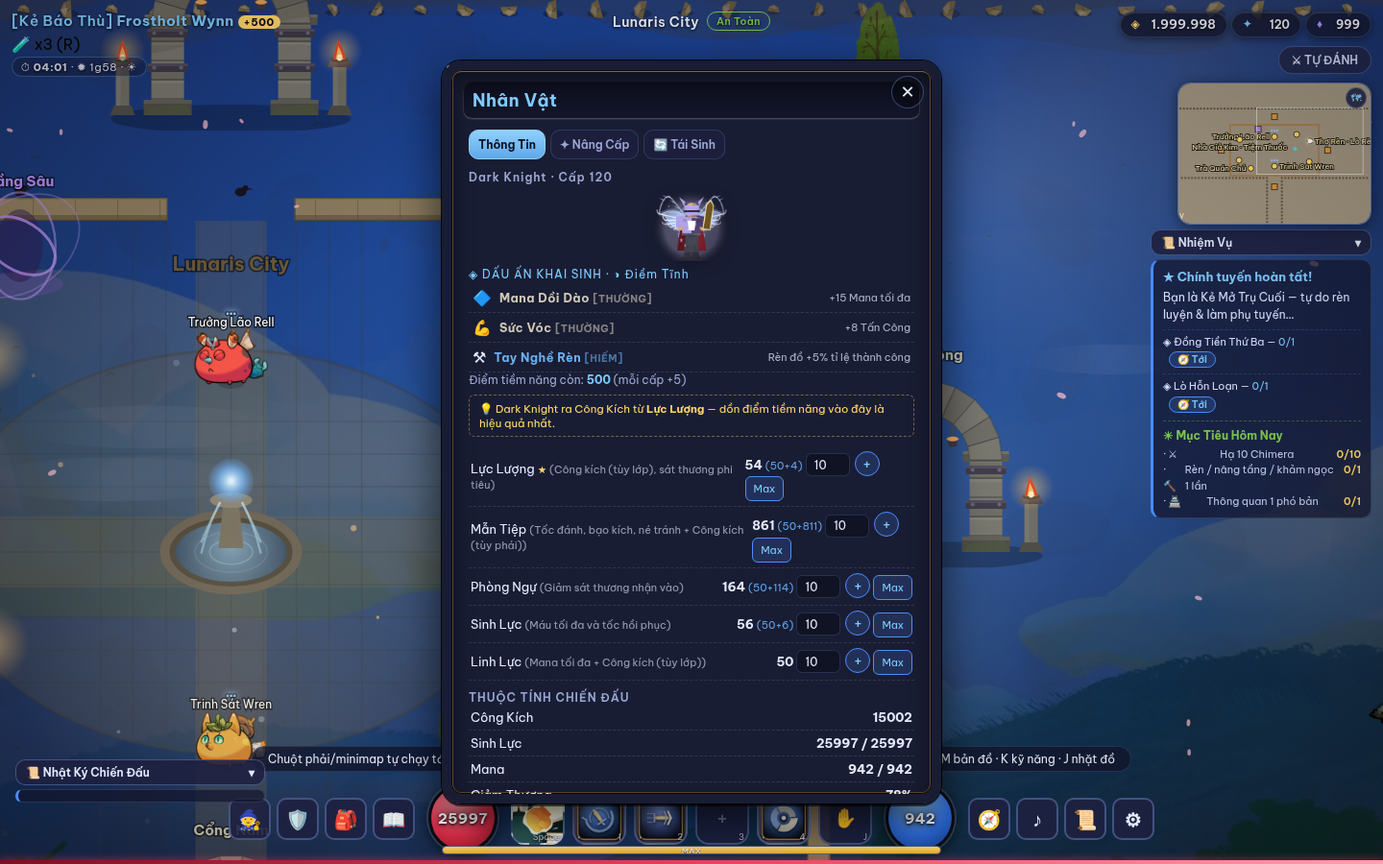
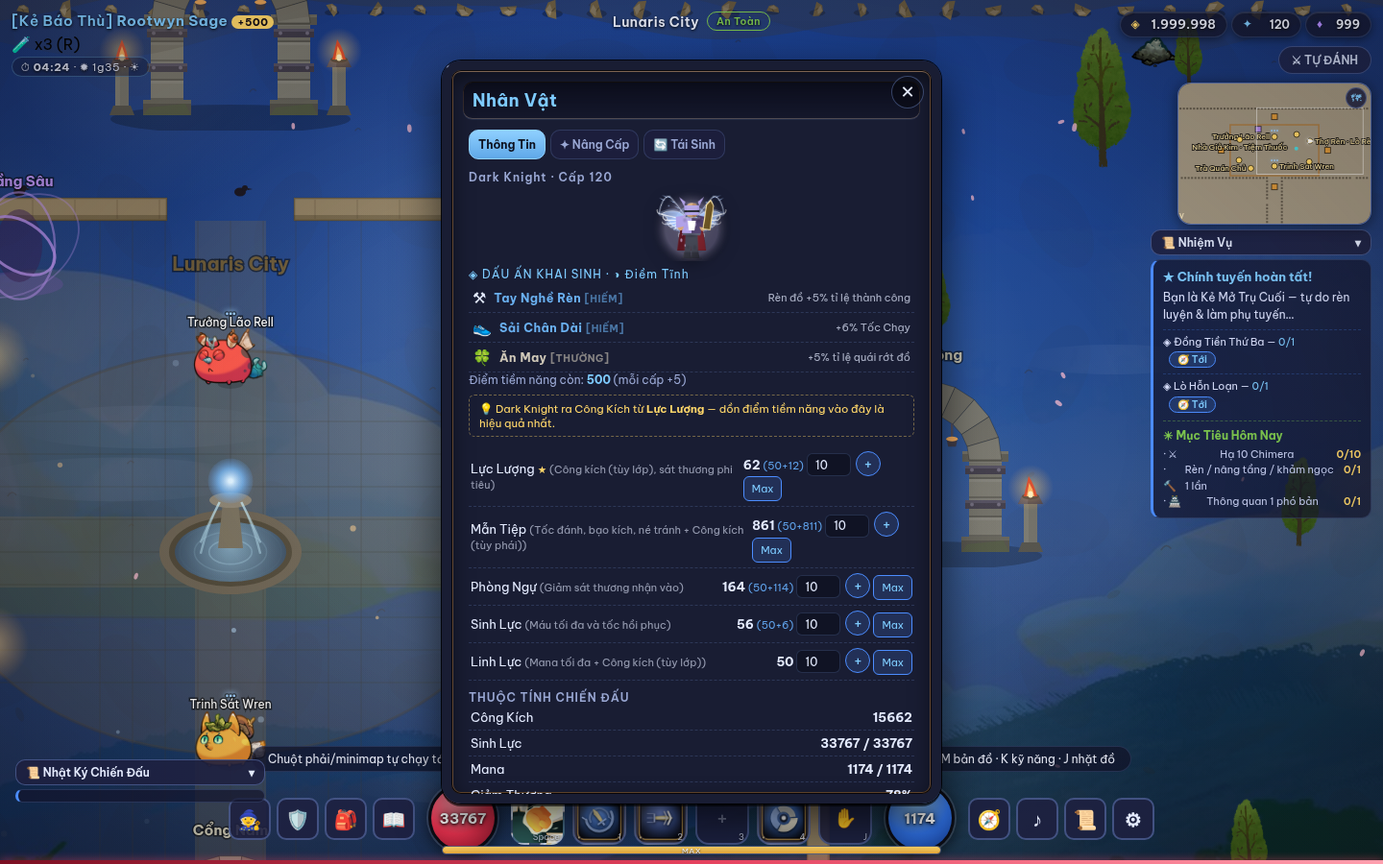
Dẹp hệ Áo Choàng — nó trùng vai với Cánh
Chủ dự án chốt: "đang có 2 loại cánh tồn tại song song là Cánh và Áo Choàng. Về
cơ bản đây là 2 món giống nhau, nhưng định nghĩa thì cánh sẽ bằng với áo choàng
của Dark Lord. Vì thế hãy dẹp bỏ luôn phần Áo Choàng Thánh Quang và ô đồ của nó."

Đúng là trùng: cả hai đều là món khoác sau lưng, đều `specialItem` không có def,
đều cộng %ST, đều chiếm một ô ở cột phải của hình nhân vật. Khác nhau mỗi đường
lên cấp — Cánh rèn bằng ngọc tới +9, Áo Choàng thì nhảy hai nấc ở Lò Hỗn Độn.
Giữ cả hai là bắt người chơi học hai hệ để mặc hai món giống nhau.

── GỠ ───────────────────────────────────────────────────────────────────────
· CLOAK_TIERS (2 cấp) · genCloak() · craftCloak()
· công thức 'Luyện Áo Choàng' trong Lò Hỗn Độn (match/plan/run)
· ô 'aochoang' trong SLOTS và EQUIP_DOLL.right — doll còn 9 ô
· tấm phi phong vẽ sau lưng nhân vật khi drawPlayer
· SLOT_ICONS.aochoang + assets/items/aochoang.png
· kích thước ô túi [2,3] · nhánh cloakTier trong itemReqLv · 2 dòng lang.js
· nhắc "· Áo Choàng" trong mô tả Tu La / Hỗn Nguyên (chúng vẫn dùng để rèn)

Cột phải nay còn BỐN ô, lệch một ô so với cột trái. Để nguyên như vậy: hình nhân
vật neo giữa, hai cột xếp từ trên xuống, thiếu một ô ở đáy phải không làm bố cục
xô lệch — doll của MU cũng không đối xứng.

── MIGRATION CHO SAVE CŨ — phần quan trọng nhất ─────────────────────────────
Không có bước này thì tấm áo choàng cũ thành ĐỒ MA: ô 'aochoang' không còn trong
[…]

diff --git a/public/game/game.js b/public/game/game.js
@@ -501,7 +501,6 @@ const SLOTS = [
   { id:'daychuyen', name:'Dây Chuyền', main:'atk', base:(t)=>Math.round(15*GIAI_POW(t)) },
   { id:'nhan1',     name:'Nhẫn 1',     main:'crit',base:(t)=>+(1.5+t*0.9).toFixed(1) },
   { id:'nhan2',     name:'Nhẫn 2',     main:'eva', base:(t)=>+(1.5+t*0.9).toFixed(1) },
-  { id:'aochoang',  name:'Áo Choàng',  special:true }, // 2 cấp, chỉ từ Luyện Bảo Các
   { id:'canh',      name:'Cánh',       special:true }, // Thiên Thần / Tiểu Quỷ — ngoài 10 cấp
 ];
 const ARMOR_SLOTS = ['non','ao','tay','chan','nhan1','nhan2']; // có thể Hoàn Hảo
@@ -512,7 +511,10 @@ const ARMOR_SLOTS = ['non','ao','tay','chan','nhan1','nhan2']; // có thể Hoà
 //   cột PHẢI  = trang sức và đồ khoác ngoài
 const EQUIP_DOLL = {
   left:  ['non','ao','tay','chan','vukhi'],
-  right: ['canh','aochoang','daychuyen','nhan1','nhan2'],
+  // Cột phải còn BỐN ô sau khi dẹp Áo Choàng — lệch một ô so với cột trái, và để nguyên
+  // như vậy: hình nhân vật neo giữa, hai cột xếp từ trên xuống, thiếu một ô ở đáy phải không
+  // làm bố cục xô lệch. Doll của MU cũng không đối xứng.
+  right: ['canh','daychuyen','nhan1','nhan2'],
 };
 // TÊN LUI theo Ô. Trước đây leo theo PHẨM (da → sắt → thép → vảy rồng → hắc nguyệt); hệ phẩm
 // vảy rồng → hắc nguyệt. Bộ tên cũ mượn thẳng binh khí kiếm hiệp (Huyền Thiết Trọng Kiếm,
@@ -524,11 +526,6 @@ const ITEM_NAMES = {
   vukhi:'Vũ Khí Vô Danh', non:'Mũ Vô Danh', ao:'Giáp Vô Danh', tay:'Găng Vô Danh',
   chan:'Ủng Vô Danh', daychuyen:'Dây Chuyền Vô Danh', nhan1:'Nhẫn Vô Danh', nhan2:'Nhẫn Vô Danh',
 };
-// Áo Choàng — 2 cấp, chỉ luyện chế tại Luyện Bảo Các (Rèn)
-const CLOAK_TIERS = [ null,
-  { name:'Áo Choàng Thép Xám', color:'#5ea0e8', req:1,  atkPct:5,  pierce:3, defPct:0, cost:{ tuLa:5,  hon:2, silver:2000 } },
-  { name:'Áo Choàng Thánh Quang', color:'#7ecbff', req:60, atkPct:10, pierce:6, defPct:5, cost:{ tuLa:10, hon:5, silver:6000 } },
-];
 // Bể dòng phụ. MỌI khoá ở đây phải có ngăn trong sổ P của calcDerived() — applyLine() lặng lẽ
 // Cánh — boss 12%, ngoài hệ 10 cấp trang bị
 // ══════════ CÁNH — ba bậc, mỗi lớp một đôi riêng (khảo sát: docs/KHAO_SAT_CANH.md) ══════════
@@ -5431,7 +5428,7 @@ function migrateBoQuan(){
 // đúng bộ đồ đang mặc. Đồ mới thì suy thẳng từ giai như bình thường.
 function itemReqLv(it){
   if (it && it.reqLv != null) return it.reqLv;
-  return it && it.tier ? (it.tier - 1) * GIAI_SPAN + 1 : (it && it.cloakTier === 2 ? 60 : 1);
+  return it && it.tier ? (it.tier - 1) * GIAI_SPAN + 1 : 1;
 }
 function subName(k){
   return { atkPct:'Thêm Sát Thương', pierce:'Xuyên Giáp', defPct:'Phòng Ngự', hpPct:'Sinh Lực Tối Đa',
@@ -5479,7 +5476,7 @@ function genItem(level, bias, srcK, opts){
     awakened: AWAKENED[Math.floor(Math.random()*AWAKENED.length)],
   });
 }
-// Trang bị đặc biệt (Áo Choàng / Pet / Cánh): chỉ số cố định, không rèn
+// Trang bị đặc biệt (Cánh): chỉ số cố định, không rèn
 function specialItem(slot, def, extra){
   const subs = [];
   for (const k in def){
@@ -5489,14 +5486,13 @@ function specialItem(slot, def, extra){
   return Object.assign({
     uid: itemSeq++, slot, slotName: (SLOTS.find(s=>s.id===slot) || {}).name || slot,
     name: def.name, level: 1, tier: 0, special: true,
-    // CÁNH rèn được như trang bị thường (Chúc Phúc → +6, Linh Hồn → +9). Áo choàng và pet thì
-    // không: chúng lên cấp bằng đường riêng (CLOAK_TIERS / hệ Linh Thú), cho rèn nữa là hai
-    // thang tiến hoá chồng lên nhau trên cùng một món.
+    // CÁNH rèn được như trang bị thường (Chúc Phúc → +6, Linh Hồn → +9). Các món đặc biệt
+    // khác thì không — chúng lên cấp bằng đường riêng, cho rèn nữa là hai thang tiến hoá
+    // chồng lên nhau trên cùng một món.
     noForge: slot !== 'canh',
     main: null, element: 'Kim', subs, plus: 0, awakened: AWAKENED[0],
   }, extra || {});
 }
-function genCloak(t){ return specialItem('aochoang', CLOAK_TIERS[t], { cloakTier: t }); }
 // LINH THÚ đã GỠ. Chú thích cũ ngay trên PET_DEFS đã tự nhận nó yếu: 'chỉ là MỘT ô, tốn cả
 // gia tài mới lên +11, và không đổi được sang con rơi tốt hơn'. Nó còn chồng vai với Chimera —
 // cả hai đều là con thú đi theo cộng chỉ số — mà Chimera có gacha, có bộ sưu tập, có chiêu riêng.
@@ -6363,6 +6359,12 @@ function loadGame(idx){
     // Save cũ mang ba trường của hệ Thuần Thục đã gỡ — dọn luôn, đừng để chúng nằm lại
     // rồi có ngày ai đó đọc phải và tưởng hệ vẫn còn.
     delete player.amkhiX; delete player.bow; delete player.gangkhi;
+    // Ô Áo Choàng đã dẹp (trùng vai với Cánh — theo định nghĩa Cánh CHÍNH LÀ áo choàng của
+    // Dark Lord). Save cũ còn một tấm nằm trong ô đó và có thể còn vài tấm trong túi: ô thì
+    // không còn tồn tại trong SLOTS nên nó thành đồ ma — không tháo được, không bán được, mà
+    // vẫn chiếm ô lưới túi. Dọn cả hai chỗ.
+    if (player.equip) delete player.equip.aochoang;
+    player.inv = (player.inv || []).filter(x => !(x && x.slot === 'aochoang'));
     if (!player.titles) player.titles = { unlocked: [], equipped: null };
     if (player.kills == null) player.kills = 0;
     if (player.forged11 == null) player.forged11 = false;
@@ -13297,25 +13299,6 @@ function drawPlayer(){
   if (maxed) drawThanHiepSeal(p, now);
   ctx.save(); ctx.translate(0, yOff);
   // Ascension aura — rotating orbs grow with realm
-  // Áo Choàng (Luyện Bảo Các) — tấm phi phong phất sau lưng, vẽ trước cánh & sprite
-  const cloakIt = p.equip && p.equip.aochoang;
-  if (cloakIt && cloakIt.cloakTier){
-    const cd2 = CLOAK_TIERS[cloakIt.cloakTier];
-    const sway = Math.sin(performance.now()/320) * 4;
-    const backAng = p.face + Math.PI;
-    const bx2 = Math.cos(backAng), by2 = Math.sin(backAng);
-    ctx.save();
-    ctx.fillStyle = cd2.color; ctx.globalAlpha = 0.82;
-    ctx.beginPath();
-    ctx.moveTo(p.x - 8, p.y - 30);
-    ctx.lineTo(p.x + 8, p.y - 30);
-    ctx.quadraticCurveTo(p.x + bx2*20 + 12, p.y + by2*8 - 6 + sway, p.x + bx2*26 + sway, p.y + 10);
-    ctx.quadraticCurveTo(p.x + bx2*14, p.y + 14 + sway*0.5, p.x - bx2*26 - sway, p.y + 10);
-    ctx.quadraticCurveTo(p.x + bx2*20 - 12, p.y + by2*8 - 6 + sway, p.x - 8, p.y - 30);
-    ctx.closePath(); ctx.fill();
-    ctx.globalAlpha = 0.5; ctx.strokeStyle = cd2.color; ctx.lineWidth = 1.4; ctx.stroke();
-    ctx.restore();
-  }
   // Cánh — vẽ trước sprite. Xem veCanh(): một hàm dùng chung cho cả nhân vật trong màn lẫn
   // hình trong bảng Nhân Vật, để hai nơi không bao giờ vẽ ra hai đôi cánh khác nhau.
   const wingIt = p.equip && p.equip.canh;
@@ -14015,25 +13998,6 @@ const CHAOS_RECIPES = [
       AudioSys.sfx('levelup', 0.7);
       return true; } },
 
-  { id:'cloak', group:'che', name:'Luyện Áo Choàng', tray:'khay trống',
-    match(v){
-      if (v.items.length || v.nJewel) return null;
-      const c = player.equip.aochoang || player.inv.find(x => x.slot === 'aochoang');
-      const t = !c ? 1 : (c.cloakTier === 1 ? 2 : 0);
-      if (!t) return null;
-      return { t, def: CLOAK_TIERS[t] };
-    },
-    plan(v, m){ const c = m.def; return {
-      title: `${c.name} (Cấp ${m.t})${player.level < c.req ? ` — cần LV${c.req}` : ''}`,
-      rate: 100,
-      cost: [ chaosCost('Tu La Tinh Thạch', player.gems.tuLa, c.cost.tuLa, '◆'),
-              chaosCost('Hỗn Nguyên', player.gems.honNguyen, c.cost.hon, '❖'),
-              chaosCost('Lumen', player.silver, c.cost.silver, '◈'),
-              chaosCost('Cấp nhân vật', player.level, c.req, '★') ],
-      warn: `Thêm Sát Thương +${c.atkPct}% · Xuyên Giáp +${c.pierce}%${c.defPct?` · Phòng Ngự +${c.defPct}%`:''}`,
-      charm:false }; },
-    run(v, m){ craftCloak(m.t); return true; } },
-
   // ── Ba bậc cánh. Cả ba đều royal:true — cánh là việc của Lò Rèn Hoàng Gia, đúng như
   // Chaos Machine của MU. Không còn quay xổ số giữa hai đôi: ra ĐÚNG đôi của lớp đang chơi.
   ...WING_TIERS.map((T, ti) => ({
@@ -14442,27 +14406,6 @@ function renderForge(){
   h += `</div>`;
   FE().innerHTML = h;
 }
-window.craftCloak = function(t){
-  const c = CLOAK_TIERS[t];
-  if (!c) return;
-  if (player.level < c.req) return;
-  if (player.gems.tuLa < c.cost.tuLa || player.gems.honNguyen < c.cost.hon || player.silver < c.cost.silver) return;
-  // t===2 replaces the equipped/inv aochoang in place (net-zero) unless neither exists — only
-  // that fallback path actually grows the inventory, same as the t!==2 path below.
-  const willAddSlot = t === 2 ? (!player.equip.aochoang && player.inv.findIndex(x => x.slot === 'aochoang') < 0) : true;
-  if (willAddSlot && !bagConCho({ slot:'aochoang' })){ addFloat(player.x, player.y-40, 'Túi đồ đầy!', '#ff7a6a', 12); return; }
-  player.gems.tuLa -= c.cost.tuLa; player.gems.honNguyen -= c.cost.hon; player.silver -= c.cost.silver;
-  const it = genCloak(t);
-  if (t === 2){
-    if (player.equip.aochoang) player.equip.aochoang = it;
-    else { const i = player.inv.findIndex(x => x.slot === 'aochoang');
-           if (i >= 0){ it.gx = player.inv[i].gx; it.gy = player.inv[i].gy; player.inv[i] = it; } else bagThem(it); }
-  } else bagThem(it);
-  addFloat(player.x, player.y-46, `Luyện thành: ${c.name}!`, c.color, 16);
-  addEffect({ type:'ring', x:player.x, y:player.y, r:100, color:c.color, big:true });
-  calcDerived(); saveGame();
-  setTimeout(renderForge, 800);
-};
 window.buyCharm = function(){
   if (player.silver < 500) return;
   player.silver -= 500; player.charms++;
@@ -14951,7 +14894,6 @@ function masteryLine(nd, v){
 function genSpecific(slotId, level){
   const slot = SLOTS.find(s => s.id === slotId);
   if (slot.special){
-    if (slotId === 'aochoang') return genCloak(1);
     return genWing(player.sect, 1);
   }
   const tier = itemTier(level);
@@ -15028,8 +14970,7 @@ function applyTestBoost(){
     it.plus = 11; it.perfect = true;
     player.equip[sl.id] = it;
   }
-  // Đồ đặc biệt tối thượng: Áo Choàng cấp 2, Linh Dực CẤP 2 (không phải cánh cấp 1)
-  player.equip.aochoang = genCloak(2);
+  // Đồ đặc biệt tối thượng: Linh Dực bậc 3 của chính lớp đang chơi
   player.equip.canh = genWing(player.sect, 3);   // max mode: cánh bậc 3 của chính lớp đang chơi
   // Châu + Bảo Hạp: để thử nguyên vòng rèn/mở hạp mà không phải cày
   player.jewels = { chucPhuc: 99, linhHon: 99, sinhMenh: 99, honDon: 99 };
@@ -16618,15 +16559,12 @@ function closePanels(){
 window.closePanels = closePanels;
 
 // ---------- Icon trang bị / vật liệu ----------
-// Chỉ còn ÁO CHOÀNG và PET. Trang bị thường xưa cũng có tệp PNG riêng ở đây, nhưng từ khi
-// mọi món đều đi qua assignDef() thì chúng luôn có `def` và luôn dựng icon bằng bộ phận —
-// tám tệp kia (nón, áo, tay, chân, quần, dây chuyền, nhẫn, vũ khí — 724 KB) chỉ còn phục vụ
-// save từ thời chưa có def, tức là không ai còn. Áo choàng và pet thì khác: chúng là
+// Chỉ còn PET. Trang bị thường xưa cũng có tệp PNG riêng ở đây, nhưng từ khi mọi món đều đi
+// qua assignDef() thì chúng luôn có `def` và luôn dựng icon bằng bộ phận. Pet thì khác: nó là
 // `specialItem`, KHÔNG có def, nên vẫn phải có tệp thật.
+// (Áo choàng đã dẹp — nó trùng vai với Cánh, xem ghi chú ở EQUIP_DOLL.)
 // Cánh cũng không có def nhưng không nằm đây — icon sinh bằng canhIconUrl().
-const SLOT_ICONS = {
-  aochoang:'aochoang', pet:'pet',
-};
+const SLOT_ICONS = { pet:'pet' };
 // ═══════════════ HÌNH VẬT PHẨM — vẽ bằng code, không dùng file PNG ═══════════════
 // 11 file PNG đang phải gánh TOÀN BỘ trang bị: mọi thanh kiếm trong game dùng chung vukhi.png,
 // khác nhau đúng một bộ lọc xoay màu theo giai. Nay mỗi món một hình riêng, vẽ bằng code y như
@@ -16893,7 +16831,7 @@ const CONSUM_DB = {
                have:()=>player.bikipVH, info:()=>`Đang có ${player.bikipVH||0} quyển · rơi từ tinh anh/trùm & Vực Thẳm` },
   tula:      { art:'stone',    col:'#e8552a', name:'Tu La Tinh Thạch', use:'Khảm trang bị · rèn +7 trở lên',
                have:()=>player.gems.tuLa, info:()=>`Đang có ${player.gems.tuLa||0}` },
-  honnguyen: { art:'stone',    col:'#b08ae8', name:'Hỗn Nguyên Thạch', use:'Rèn +10/+11 · luyện Áo Choàng',
+  honnguyen: { art:'stone',    col:'#b08ae8', name:'Hỗn Nguyên Thạch', use:'Rèn +10/+11',
                have:()=>player.gems.honNguyen, info:()=>`Đang có ${player.gems.honNguyen||0}` },
 };
 const _consumCache = new Map();
@@ -17473,8 +17411,8 @@ window.onEquipSlotDrop = function(e, slotId){
 window.bagSel = -1;
 const MAT_ROWS = [
   { icon:'shard', name:'Shard', get:()=>(player&&player.shard)||0, color:'#b18cff', desc:'Quầy Shard — đổi vé quay · nới túi/kho' },
-  { icon:'tula', name:'Tu La Tinh Thạch', get:()=>player.gems.tuLa, color:'#e84a6a', desc:'rèn +7 trở lên · Áo Choàng' },
-  { icon:'honnguyen', name:'Hỗn Nguyên Thạch', get:()=>player.gems.honNguyen, color:'#b08ae8', desc:'rèn +10/+11 · Áo Choàng' },
+  { icon:'tula', name:'Tu La Tinh Thạch', get:()=>player.gems.tuLa, color:'#e84a6a', desc:'rèn +7 trở lên' },
+  { icon:'honnguyen', name:'Hỗn Nguyên Thạch', get:()=>player.gems.honNguyen, color:'#b08ae8', desc:'rèn +10/+11' },
   { icon:'phu', name:'Thiên Mệnh Phù', get:()=>player.charms, color:'#7ecbff', desc:'bảo hiểm rèn' },
   { icon:'tanquyen', name:'Mảnh Cổ Thư (Thượng/Trung/Hạ)', get:()=>player.bikip ? player.bikip.pieces.join('/') : '0/0/0', color:'#e84a6a', desc:'dung hợp Huyết Ma Thôn Phệ' },
   { icon:'manhtrangbi', name:'Mảnh Trang Bị', get:()=>(player.mats&&player.mats.manh)||0, color:'#7ec8d8', desc:'Kế Thừa — rơi từ quái/tinh anh' },
@@ -17528,7 +17466,7 @@ function bagCap(){ return BAG_COLS * bagRows(); }
 const BAG_SIZES = {
   nhan1:[1,1], nhan2:[1,1], daychuyen:[1,2],
   non:[2,2], ao:[2,2], tay:[2,2], chan:[2,2],
-  aochoang:[2,3], canh:[3,2],          // cánh 3×2 = 6 ô, RỘNG chứ không dọc
+  canh:[3,2],                          // cánh 3×2 = 6 ô, RỘNG chứ không dọc
   // Đôi cánh bậc 3 đo được 376×210 ở cỡ gốc — rộng gần gấp đôi chiều cao. Bản trước để
   // [2,5] tức hai cột dọc cao nghêu, nhét hình 1,8:1 vào đó thì nó teo còn một dúm ở giữa.
   // 3×2 = 6 ô cũng đúng khối cánh của MU, và vẫn nhỏ hơn vũ khí hai tay (2×4 = 8 ô).

diff --git a/tests/test_eqdoll.js b/tests/test_eqdoll.js
@@ -30,9 +30,10 @@ const pass = m => console.log('PASS ' + m);
              caption: (document.querySelector('.eq-fig-cap') || {}).innerText || '' };
   });
   console.log('1.', JSON.stringify(r1));
-  // Ô 'pet' đã gỡ cùng hệ Linh Thú — cột phải còn 5 ô.
-  // Ô 'quan' cũng đã gỡ (đồ quần cũ chuyển thành đồ Chân) — cột trái còn 5 ô.
-  const want = { trai:['non','ao','tay','chan','vukhi'], phai:['canh','aochoang','daychuyen','nhan1','nhan2'] };
+  // Ô 'pet' đã gỡ cùng hệ Linh Thú, ô 'quan' cũng đã gỡ (đồ quần cũ chuyển thành đồ Chân).
+  // Ô 'aochoang' gỡ nốt vì trùng vai với Cánh — nên cột phải nay còn BỐN, lệch một ô so với
+  // cột trái. Cố ý: doll của MU cũng không đối xứng.
+  const want = { trai:['non','ao','tay','chan','vukhi'], phai:['canh','daychuyen','nhan1','nhan2'] };
   if (r1.soCot !== 2) fail('phải có đúng 2 cột ô đồ, đang ' + r1.soCot);
   else pass('2 cột ô đồ hai bên');
   if (JSON.stringify(r1.trai) !== JSON.stringify(want.trai)) fail('cột trái sai thứ tự: ' + JSON.stringify(r1.trai));
@@ -99,16 +100,18 @@ const pass = m => console.log('PASS ' + m);
              lang: window.ghhaLang ? window.ghhaLang() : '?' };
   });
   console.log('5.', JSON.stringify(r5));
-  if (r5.soO !== 10 || r5.oTrong !== 10) fail(`chưa mặc gì: ${r5.soO} ô / ${r5.oTrong} ô trống (mong 10/10)`);
-  else pass('chưa mặc gì: đủ 10 ô trống, mỗi ô có nhãn tên vị trí');
+  // CHÍN ô, không phải mười: ô 'aochoang' đã gỡ (trùng vai với Cánh). Con số này đi theo
+  // EQUIP_DOLL — sửa bảng đó thì sửa luôn ở đây, đừng nới lỏng phép so thành `>=`.
+  if (r5.soO !== 9 || r5.oTrong !== 9) fail(`chưa mặc gì: ${r5.soO} ô / ${r5.oTrong} ô trống (mong 9/9)`);
+  else pass('chưa mặc gì: đủ 9 ô trống, mỗi ô có nhãn tên vị trí');
   // Đối chiếu với DANH SÁCH nhãn, không đoán theo dấu tiếng Việt: "Tay" và "Pet" không có dấu
   // nào cả nên phép đoán đó luôn báo lẫn ngôn ngữ dù bảng hoàn toàn nhất quán.
-  const VI = ['Nón','Áo','Tay','Quần','Chân','Vũ Khí','Cánh','Áo Choàng','Dây Chuyền','Nhẫn 1','Nhẫn 2','Pet'];
-  const EN = ['Helm','Armor','Gloves','Pants','Boots','Weapon','Wings','Cloak','Amulet','Ring 1','Ring 2','Pet'];
+  const VI = ['Nón','Áo','Tay','Quần','Chân','Vũ Khí','Cánh','Dây Chuyền','Nhẫn 1','Nhẫn 2','Pet'];
+  const EN = ['Helm','Armor','Gloves','Pants','Boots','Weapon','Wings','Amulet','Ring 1','Ring 2','Pet'];
   const set = r5.lang === 'en' ? EN : VI;
   const lac = r5.nhan.filter(n => !set.includes(n));
   if (lac.length) fail(`ngôn ngữ hiện tại "${r5.lang}" nhưng ${lac.length} nhãn không thuộc bộ đó: ` + JSON.stringify(lac));
-  else pass(`nhãn 10 ô cùng bộ ngôn ngữ "${r5.lang}"`);
+  else pass(`nhãn 9 ô cùng bộ ngôn ngữ "${r5.lang}"`);
 
   // ── 6. bố cục không tràn ở cả hai khổ màn hình ─────────────────────────
   for (const [w, h] of [[1366,768],[390,844]]){
@@ -117,13 +120,14 @@ const pass = m => console.log('PASS ' + m);
     const r6 = await p.evaluate(() => {
       const s = [...document.querySelectorAll('.eq-doll .eq-slot')].map(e => e.getBoundingClientRect());
       const d = document.querySelector('.eq-doll').getBoundingClientRect();
-      return { ngoai: s.filter(x => x.left < 0 || x.right > innerWidth).length,
+      return { tong: s.length,
+               ngoai: s.filter(x => x.left < 0 || x.right > innerWidth).length,
                nho: s.filter(x => x.width < 24 || x.height < 24).length,
                rong: Math.round(d.width) };
     });
     if (r6.ngoai) fail(`${w}×${h}: ${r6.ngoai} ô nằm ngoài màn hình`);
     else if (r6.nho) fail(`${w}×${h}: ${r6.nho} ô dưới ngưỡng chạm 24px`);
-    else pass(`${w}×${h}: 10 ô nằm trong màn hình, đều đạt ngưỡng chạm (bảng rộng ${r6.rong}px)`);
+    else pass(`${w}×${h}: ${r6.tong} ô nằm trong màn hình, đều đạt ngưỡng chạm (bảng rộng ${r6.rong}px)`);
   }
 
   console.log('errors:', JSON.stringify(errs));

diff --git a/tests/test_chaos.js b/tests/test_chaos.js
@@ -42,9 +42,7 @@ const { chromium } = require('playwright');
 
     // ── 2. KHỚP CÔNG THỨC theo khay ───────────────────────────────────
     reset(); goRoyal(false);
-    o.khayTrong_coAoChoang = ids();          // đã có áo choàng cấp 2 → công thức cloak phải TẮT
-    player.equip.aochoang = null; player.inv = player.inv.filter(x => x.slot !== 'aochoang');
-    o.khayTrong = ids();                     // chưa có áo choàng → cloak phải BẬT
+    o.khayTrong = ids();                     // khay trống — công thức 'cloak' đã gỡ hẳn
     const w = player.equip.vukhi; w.plus = 3;
     chaosAddItem(w.uid);  o.motMon_plus3 = ids();
     chaosAddJewel('chucPhuc'); o.themChucPhuc = idsReady();
@@ -128,10 +126,10 @@ const { chromium } = require('playwright');
   // 8 chứ không 40: hệ phẩm đã gỡ nên ITEM_NAMES còn ĐÚNG MỘT tên lui mỗi ô, không phải năm
   // tên chọn theo phẩm. (Trước đó là 40 = 8 ô × 5 phẩm; trước nữa là 45 khi còn ô Quần.)
   if (r.soTen !== 8) fail(`bảng tên có ${r.soTen} tên, cần 8 (mỗi ô một tên lui)`);
-  if (!r.khayTrong.includes('cloak'))
-    fail(`khay trống + chưa có áo choàng phải ra công thức cloak: ${JSON.stringify(r.khayTrong)}`);
-  if (r.khayTrong_coAoChoang.includes('cloak'))
-    fail('đã có áo choàng cấp 2 mà công thức luyện áo choàng vẫn bật');
+  // Công thức 'Luyện Áo Choàng' đã gỡ cùng cả hệ Áo Choàng — nó trùng vai với Cánh (theo định
+  // nghĩa chủ dự án chốt: Cánh CHÍNH LÀ áo choàng của Dark Lord). Gác ngược lại: nó phải BIẾN MẤT.
+  if (r.khayTrong.includes('cloak'))
+    fail(`công thức 'cloak' vẫn còn trong Lò Hỗn Độn: ${JSON.stringify(r.khayTrong)}`);
   if (!r.motMon_plus3.includes('ren')) fail('1 món +3 trong khay mà không ra Rèn Thường');
   if (!r.themChucPhuc.includes('bless')) fail('bỏ Chúc Phúc vào khay mà công thức bless chưa đủ');
   if (!r.plus9_ngoaiLoRen.includes('phathien(khoá)'))

diff --git a/tests/test_ngoccanh.js b/tests/test_ngoccanh.js
@@ -2,7 +2,7 @@
 //
 // Trước đây specialItem() đóng dấu noForge:true cho MỌI đồ đặc biệt, nên cánh — món đắt nhất
 // game — lại là món duy nhất không rèn được. Nay cánh mở, còn áo choàng và pet vẫn khoá: hai
-// thứ đó lên cấp bằng đường riêng (CLOAK_TIERS / hệ Linh Thú), cho rèn nữa là hai thang tiến
+// thứ đó lên cấp bằng đường riêng, cho rèn nữa là hai thang tiến
 // hoá chồng lên nhau trên cùng một món.
 //
 // Sinh Mệnh là viên NGỌC KHÁC LOẠI: hai viên kia ăn vào it.plus, viên này ăn vào it.life —
@@ -36,7 +36,6 @@ const pass = m => console.log('PASS ' + m);
     for (let i = 0; i < 900 && (w.plus||0) < 9; i++) epNgoc(w, 'linhHon');
     o.sauLinhHon = w.plus;
     o.chanO9 = ngocEpDuoc(w, 'linhHon') !== null;
-    o.aoChoangVanKhoa = !!genCloak(1).noForge;
     // ── Sinh Mệnh ──
     o.rate = NGOC_EP.sinhMenh.rate;
     o.tran = NGOC_EP.sinhMenh.tran;
@@ -87,8 +86,6 @@ const pass = m => console.log('PASS ' + m);
   if (r.sauLinhHon !== 9) fail(`Linh Hồn đưa cánh tới +${r.sauLinhHon}, mong +9`);
   else if (!r.chanO9) fail('Linh Hồn không dừng ở +9 — Phá Thiên Kiếp mất chỗ đứng');
   else pass('Linh Hồn: cánh → +9 rồi dừng');
-  if (!r.aoChoangVanKhoa) fail('áo choàng cũng mở rèn — chỉ CÁNH mới được mở');
-  else pass('áo choàng vẫn khoá rèn, đúng chủ ý');
 
   if (r.rate !== 50) fail(`Sinh Mệnh tỉ lệ ${r.rate}%, chủ dự án chốt 50% phẳng`);
   else pass('Sinh Mệnh 50% phẳng mọi bậc');

diff --git a/public/game/lang.js b/public/game/lang.js
@@ -87,7 +87,7 @@ const EXACT = {
   // Slots
   'Vũ Khí': 'Weapon', 'Nón': 'Helm', 'Áo': 'Armor', 'Tay': 'Gloves', 'Quần': 'Pants',
   'Chân': 'Boots', 'Dây Chuyền': 'Amulet', 'Nhẫn 1': 'Ring 1', 'Nhẫn 2': 'Ring 2',
-  'Áo Choàng': 'Cloak', 'Binh Khí': 'Weapon', 'đang mặc': 'equipped', 'túi': 'bag',
+  'Binh Khí': 'Weapon', 'đang mặc': 'equipped', 'túi': 'bag',
   // 'Cánh' và 'Pet' từng thiếu, nên bảng Trang Bị hiện 10 nhãn tiếng Anh xen 2 nhãn tiếng Việt
   'Cánh': 'Wings', 'Pet': 'Pet', 'Chưa mặc giáp': 'No armor equipped',
   'Bấm để tháo · kéo từ Túi Đồ để mặc': 'Click to unequip · drag from Bag to equip',
@@ -188,7 +188,7 @@ const EXACT = {
   'Tấn Phẩm & Kế Thừa — rơi từ quái/tinh anh': 'Promotion & Inheritance — drops from monsters/elites',
   'Khảm trang bị, rèn +7 trở lên — hiếm có': 'Socket gear, forge +7 and above — rare',
   'Rèn +10/+11 — cực hiếm': 'Forge +10/+11 — extremely rare',
-  'rèn +7 trở lên · Áo Choàng': 'forge +7 and above · Cloak', 'rèn +10/+11 · Áo Choàng': 'forge +10/+11 · Cloak',
+  'rèn +7 trở lên': 'forge +7 and above', 'rèn +10/+11': 'forge +10/+11',
   'Gói tiết kiệm — chỉ bán theo đợt': 'Budget bundle — sold in batches only',
   'dung hợp Huyết Ma Thôn Phệ': 'fuse into Blood Demon Devour',
   'Bình Thuốc Đỏ hồi 55% máu (thay 40%)': 'Red Potion heals 55% HP (instead of 40%)',

diff --git a/tests/test_goloi.js b/tests/test_goloi.js
@@ -64,7 +64,6 @@ const pass = m => console.log('PASS ' + m);
     o.thuong  = itemVutDuoc(thuong);
     o.hoanHao = itemVutDuoc(hoanHao);
     o.canh    = itemVutDuoc(genWing('baidasan', 1));
-    o.aoChoang = itemVutDuoc(genCloak(1));
     o.lyDoHoanHao = itemVutLyDo(hoanHao);
     o.lyDoCanh    = itemVutLyDo(genWing('baidasan', 1));
     // vứt thật: món rời túi và NẰM DƯỚI ĐẤT, không phải bốc hơi
@@ -83,8 +82,6 @@ const pass = m => console.log('PASS ' + m);
   if (v.canh) fail('cánh vứt được — phải chặn');
   else if (!v.lyDoCanh) fail('chặn cánh nhưng không nói lý do');
   else pass('cánh bị chặn, có kèm lý do');
-  if (v.aoChoang) fail('áo choàng vứt được — đồ đặc biệt phải chặn');
-  else pass('áo choàng bị chặn');
   if (v.tuiCon !== 0) fail(`vứt rồi mà túi vẫn còn ${v.tuiCon} món`);
   else if (v.duoiDat !== 1) fail('món bị vứt không nằm dưới đất — nó bốc hơi mất');
   else pass('món vứt ra rơi xuống đất, nhặt lại được');

diff --git a/tests/test_epngoc.js b/tests/test_epngoc.js
@@ -34,8 +34,8 @@ const { chromium } = require('playwright');
     applyTestBoost();
     player.inv = []; player.bagPlus = 0;
     // mỗi loại một món, để đo đủ các cỡ
-    const mau = ['nhan1','daychuyen','ao','aochoang','canh','vukhi'].map(sl => {
-      const it = sl === 'canh' ? genWing(0) : sl === 'aochoang' ? genCloak(1) : genSpecific(sl, 2, 60);
+    const mau = ['nhan1','daychuyen','ao','canh','vukhi'].map(sl => {
+      const it = sl === 'canh' ? genWing(0) : genSpecific(sl, 2, 60);
       return it;
     }).filter(Boolean);
     for (const it of mau) bagThem(it);
@@ -49,7 +49,6 @@ const { chromium } = require('playwright');
   check('nhẫn 1×1', co.nhan1, [1,1]);
   check('dây chuyền 1×2', co.daychuyen, [1,2]);
   check('áo 2×2', co.ao, [2,2]);
-  check('áo choàng 2×3', co.aochoang, [2,3]);
   check('CÁNH 3×2 = 6 ô, RỘNG chứ không dọc', co.canh, [3,2]);
   cond('vũ khí cao hơn rộng', co.vukhi, v => v && v[1] > v[0], 'vũ khí phải dài theo chiều dọc');
 
